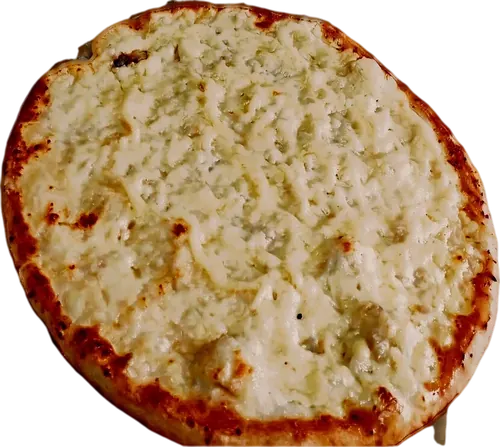
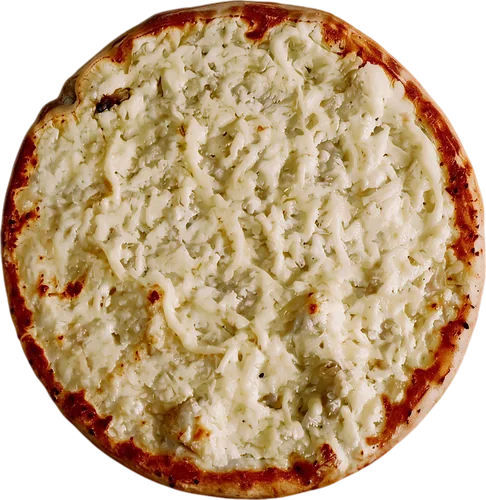
feat: vier Produkte neu aufgenommen — is_inpaint statt Hochrechnen
Karol am 07.09.: „ich will die Qualitaet der im Hintergrund fliegenden Produkte
so gut es geht an Aram anpassen, aber trotzdem mit Higgsfield verbessern. Ich
meine es ernst — diese abgeschnittenen Manakisch, Lahmacun und so, dass das
ein hoeheres Level ist."

Er hat recht, und mein Schluss von gestern war zu eng. Hochrechnen war das
falsche Werkzeug (die Produkte sind nicht aufloesungsbegrenzt) — eine
NEUAUFNAHME mit Referenz ist ein anderes. `seedream_v5_pro` hat genau die zwei
Schalter dafuer: `is_inpaint` bearbeitet die Referenz statt neu zu erfinden,
`remove_bg` liefert das Ergebnis schon freigestellt.

Und er hat die richtigen benannt. Gemessen, welcher Anteil der Objektbreite an
einer Kante deckend ist (ueber 55 % heisst: mit der Schere abgeschnitten):

    schwarm-lahmacun  unten 57 %, rechts 71 %
    schwarm-zaatar    links 57 %          (das Manakisch)
    fatayer-frei      unten 55 %
    schwarm-kaese     unten 57 %

Vier Stuecke ueberarbeitet, jeweils mit einem Wortlaut, der nur die AUFNAHME
freigibt und die Sache selbst festnagelt — gleiche Form, gleicher Belag,
gleiche Verteilung; nur Licht, Schaerfe und der fehlende Umriss aendern sich.

    Produkt      Schaerfe        Kante        Farbabstand   Umriss-IoU
    lahmacun     1795 -> 4551    71 % -> 50 %        2,6       88,3 %
    zaatar       2570 -> 3893    57 % -> 42 %        4,6       93,1 %
    fatayer      1956 -> 1858    54 % -> 53 %       12,0       97,1 %
[…]

diff --git a/src/gebaecke.ts b/src/gebaecke.ts
@@ -150,11 +150,17 @@ export type Gebaeck = {
    * ═══ Und woher der Wert kommt ═══
    *
    * Nicht aus dem Gefuehl, sondern aus der GEMESSENEN Schaerfe des Fotos.
-   * Am 07.09. gemessen (Laplace-Varianz im deckenden Bereich):
+   * Stand nach der Ueberarbeitung mit seedream am 07.09. (Laplace-Varianz im
+   * deckenden Bereich, bei gleicher Darstellgroesse):
    *
-   *     zaatar-2 2122 · zaatar 2111 · lahmacun 1795 · fatayer 1599
-   *     rolle 1512 · gebacken 1156 · bleche 987 · sesam 816
-   *     stapel 644 · kaese 503
+   *     lahmacun 4551 · zaatar 3893 · zaatar-2 2676 · bleche 2168
+   *     fatayer 1858 · stapel 1732 · rolle 1676 · gebacken 1302
+   *     kaese 1143 · sesam 861
+   *
+   * Verteilt wird nach RANG, nicht nach Rohwert. Die vier ueberarbeiteten
+   * Stuecke haben ihre Schaerfe verdoppelt bis vervierfacht; nach Rohwert
+   * besetzten sie die ganze Spitze und sechs von zehn landeten hinten. Der
+   * Rang haelt die Staffelung gleichmaessig und die Ordnung trotzdem ehrlich.
    *
    * Karol dazu: „bei zum Beispiel Lahmacun und Fatayer, kann man doch bestimmt
    * gut auch mehr machen." Genau die stehen oben in der Liste.
@@ -285,12 +291,12 @@ export const GEBAECKE: Gebaeck[] = [
     alt: 'Ein Fata’er von Aram, gewölbt und glänzend, dicht mit Sesam und Schwarzkümmel bestreut',
     li: 3,
     ob: 6,
-    gr: 23,
-    tiefe: 0.32,
+    gr: 21,
+    tiefe: 0.44,
     liM: 58,
     grM: 52,
-    breite: 780,
-    hoehe: 554,
+    breite: 900,
+    hoehe: 709,
     /* Das echte fliegt am weitesten und am grössten — es ist das einzige, das
        zeigt, was der Gast bekommt. */
     y: [0.5, -0.34],
@@ -310,8 +316,8 @@ export const GEBAECKE: Gebaeck[] = [
     alt: 'Ein goldbraun gebackenes gefuelltes Gebaeck von Aram, die Fuellung tritt an den Einschnitten hervor',
     li: 70,
     ob: 20,
-    gr: 22,
-    tiefe: 0.38,
+    gr: 18,
+    tiefe: 0.67,
     liM: 72,
     grM: 48,
     breite: 780,
@@ -333,12 +339,12 @@ export const GEBAECKE: Gebaeck[] = [
     alt: 'Ein Lahmacun mit Hackfleisch, Petersilie und Paprika',
     li: 16,
     ob: 36,
-    gr: 24,
-    tiefe: 0.2,
+    gr: 27,
+    tiefe: 0.0,
     liM: 54,
     grM: 48,
-    breite: 780,
-    hoehe: 745,
+    breite: 900,
+    hoehe: 796,
     y: [0.62, -0.28],
     x: [-0.05, 0.1],
     dreh: [-45, 22],
@@ -356,12 +362,12 @@ export const GEBAECKE: Gebaeck[] = [
     alt: 'Ein Manakisch mit Zaatar, frisch aus dem Ofen',
     li: 78,
     ob: 48,
-    gr: 27,
-    tiefe: 0.01,
+    gr: 26,
+    tiefe: 0.11,
     liM: 76,
     grM: 38,
-    breite: 780,
-    hoehe: 772,
+    breite: 900,
+    hoehe: 826,
     y: [0.28, -0.4],
     x: [0.06, -0.04],
     dreh: [36, -25],
@@ -379,8 +385,8 @@ export const GEBAECKE: Gebaeck[] = [
     alt: 'Ein zweites Manakisch mit Zaatar',
     li: 4,
     ob: 62,
-    gr: 27,
-    tiefe: 0.0,
+    gr: 24,
+    tiefe: 0.22,
     liM: 74,
     grM: 36,
     breite: 780,
@@ -402,8 +408,8 @@ export const GEBAECKE: Gebaeck[] = [
     alt: 'Ein goldbraun gebackener Fata’er, dicht mit Sesam und Schwarzkümmel',
     li: 62,
     ob: 74,
-    gr: 16,
-    tiefe: 0.81,
+    gr: 14,
+    tiefe: 1.0,
     liM: 60,
     grM: 50,
     breite: 780,
@@ -425,8 +431,8 @@ export const GEBAECKE: Gebaeck[] = [
     alt: 'Ein flacher, goldbraun gebackener Fata’er mit Sesam',
     li: 34,
     ob: 84,
-    gr: 19,
-    tiefe: 0.6,
+    gr: 17,
+    tiefe: 0.78,
     liM: 78,
     grM: 34,
     breite: 780,
@@ -448,12 +454,12 @@ export const GEBAECKE: Gebaeck[] = [
     alt: 'Ein runder Fladen von Aram, dick mit geschmolzenem Kaese belegt',
     li: 84,
     ob: 92,
-    gr: 14,
-    tiefe: 1.0,
+    gr: 15,
+    tiefe: 0.89,
     liM: 56,
     grM: 48,
-    breite: 780,
-    hoehe: 698,
+    breite: 875,
+    hoehe: 900,
     y: [0.24, -0.44],
     x: [0.05, -0.05],
     dreh: [39, -22],
@@ -483,8 +489,8 @@ export const GEBAECKE: Gebaeck[] = [
     alt: 'Zwei runde Bleche mit frisch gebackenem Gebäck aus dem Laden',
     li: 46,
     ob: 30,
-    gr: 18,
-    tiefe: 0.7,
+    gr: 23,
+    tiefe: 0.33,
     liM: 64,
     grM: 40,
     breite: 780,
@@ -506,8 +512,8 @@ export const GEBAECKE: Gebaeck[] = [
     alt: 'Ein hoher Stapel gebackener Fladen aus der Backstube',
     li: 24,
     ob: 68,
-    gr: 15,
-    tiefe: 0.91,
+    gr: 20,
+    tiefe: 0.56,
     liM: 30,
     grM: 34,
     breite: 438,
@@ -543,8 +549,8 @@ export const GEBAECKE: Gebaeck[] = [
     nurBreit: true,
     liM: 40,
     grM: 30,
-    breite: 780,
-    hoehe: 745,
+    breite: 900,
+    hoehe: 796,
     y: [0.44, -0.29],
     x: [0.04, -0.05],
     dreh: [18, -14],
@@ -567,8 +573,8 @@ export const GEBAECKE: Gebaeck[] = [
     nurBreit: true,
     liM: 20,
     grM: 32,
-    breite: 780,
-    hoehe: 772,
+    breite: 900,
+    hoehe: 826,
     y: [0.44, -0.29],
     x: [-0.04, 0.05],
     dreh: [-18, 14],
@@ -591,8 +597,8 @@ export const GEBAECKE: Gebaeck[] = [
     nurBreit: true,
     liM: 68,
     grM: 28,
-    breite: 780,
-    hoehe: 554,
+    breite: 900,
+    hoehe: 709,
     y: [0.44, -0.29],
     x: [0.04, -0.05],
     dreh: [18, -14],
